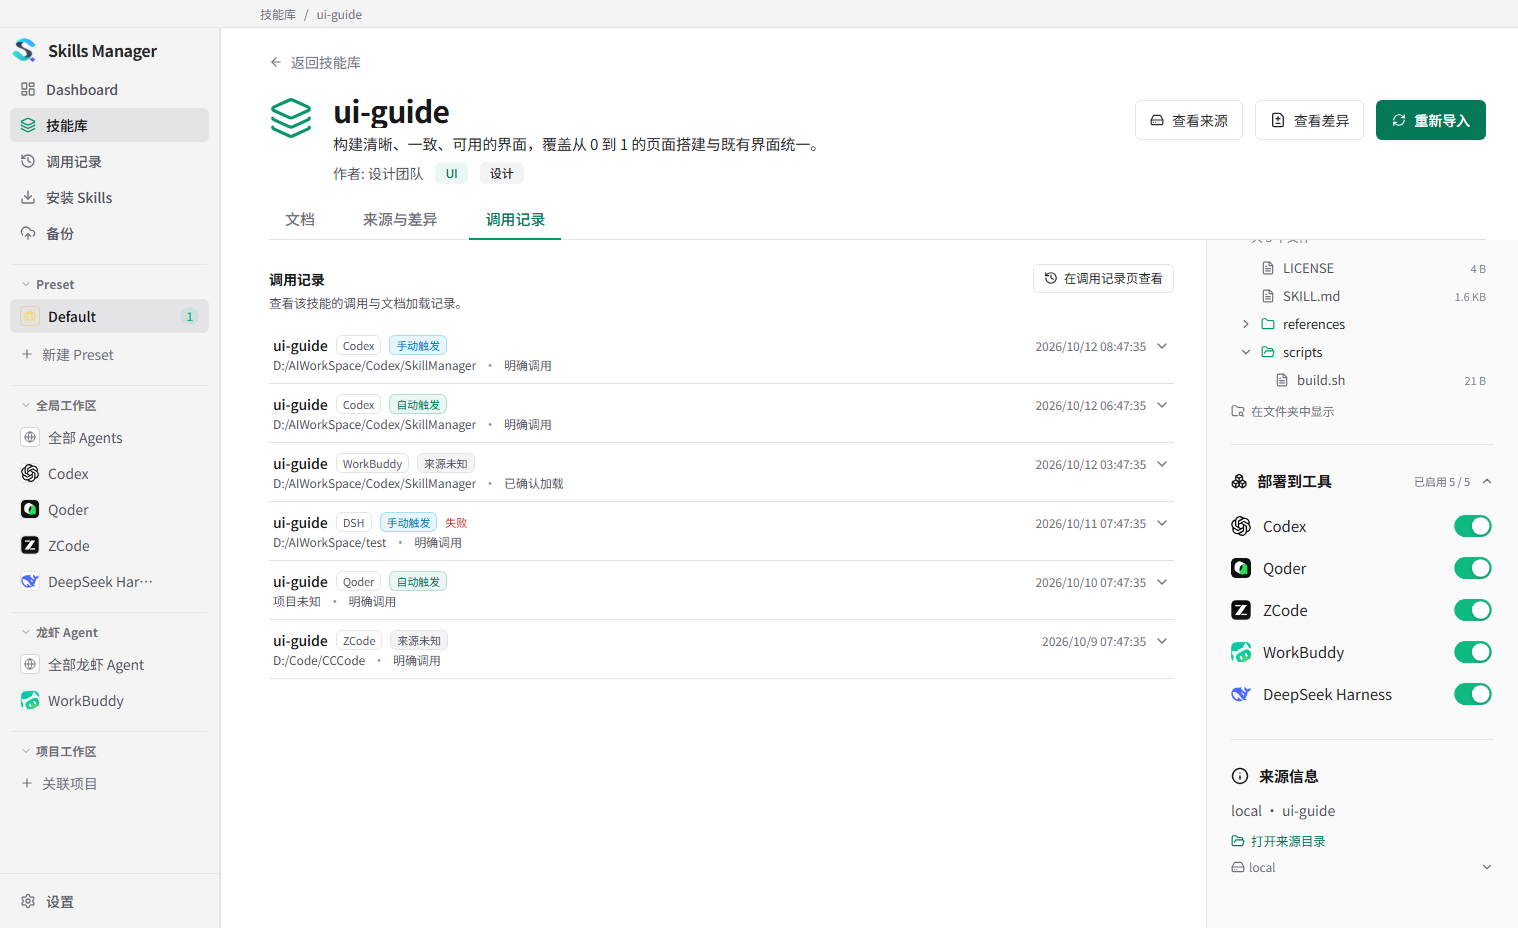
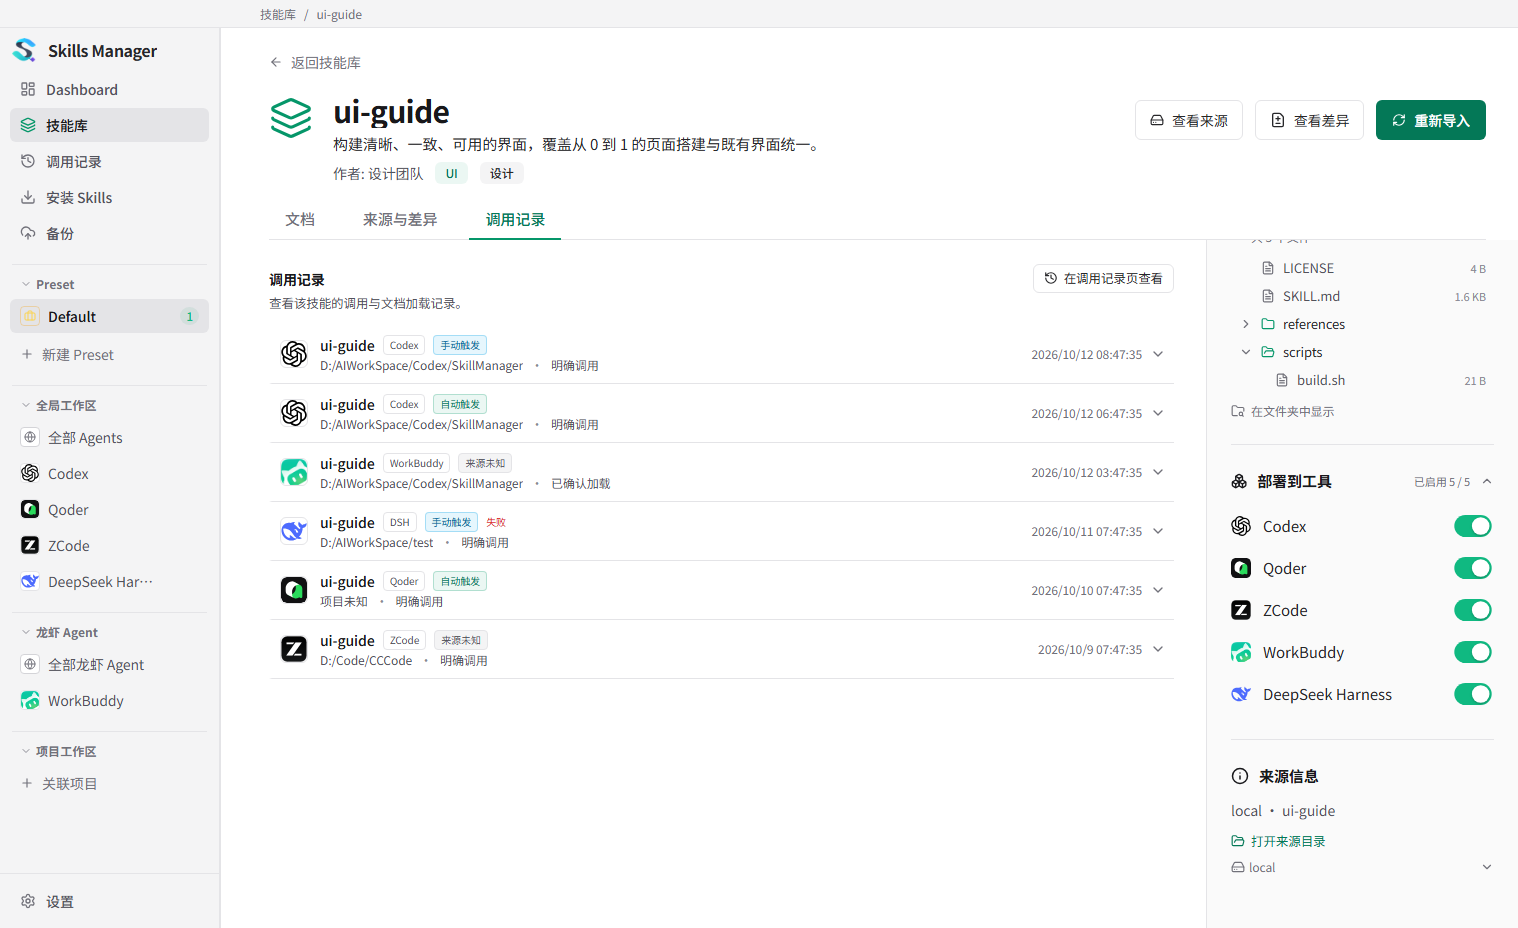
fix: 修复打开文件无反应，并按参考图重做调用记录样式（含深色）
打开文件无反应（根因有硬证据）
- 桌面外壳用 ELECTRON_RUN_AS_NODE=1 拉起本地服务，该变量会继续传给被打开的
  程序。本机 .md 的默认程序是 Typora（Electron 应用），在该变量下会以普通 Node
  模式启动、无法创建窗口，表现为"点了打开文件却没有任何反应"。
- 用工程内 electron.exe 实测：带该变量时 process.type 为空且 require('electron')
  抛「Cannot find module 'electron'」；不设置时 process.type=browser、app 可用。
- 修复：打开外部程序前清理 Electron 注入的环境变量（不改动传入对象本身）。
- 打开方式改为候选序列，失败才回退：Windows 定位文件用 explorer.exe "/select," 与
  路径两个参数（合并成一个参数在路径含空格时会被引号包裹、explorer 解析失败）；
  目录先用文件管理器打开；文件先交给系统默认程序，失败回退为在文件夹中定位。
- 等待子进程真正建立或明确失败，把真实原因返回界面，不再静默成功。
- 新增单测：launchEnv 清理变量、launchPlan 四种平台/类型组合、pathWithinRoots 边界。

调用记录样式对齐参考图（浅色 + 深色）
- 每行以工具图标起头，与参考图右栏的工具行同构；触发方式徽章浅色用深色文字、
  深色用浅色文字；展开行为浅绿底 + 3px 左侧绿线，对应参考图"目录"的选中态。
- 调用记录页去掉最后一行与分页之间的重复分隔线。

验证：后端 47 项 45 通过（2 项仍为本机 spawnSync 派生进程 EBUSY，与本次改动无关）、
UI 6/6、lint、类型检查与构建通过；真实浏览器断言与截图见 output/ui-rework/evidence。

diff --git a/src/components/ActivityRecordList.tsx b/src/components/ActivityRecordList.tsx
@@ -3,10 +3,12 @@ import { useTranslation } from "react-i18next";
 import { ChevronDown, FileSearch, FolderSearch, History, RefreshCw } from "lucide-react";
 import { cn } from "../utils";
 import { openPath } from "../lib/tauri";
-import { toolNames, type ActivityEvent } from "../lib/activity";
+import { toolIconKeys, toolNames, type ActivityEvent } from "../lib/activity";
+import { AgentIcon } from "./AgentIcon";
 
+// 触发方式徽章：浅色用深色文字，深色用浅色文字，避免只在单一主题下可读。
 const TRIGGER_TONE: Record<ActivityEvent["trigger"], string> = {
-  manual: "border-sky-500/30 bg-sky-500/10 text-sky-600 dark:text-sky-300",
+  manual: "border-sky-500/30 bg-sky-500/10 text-sky-700 dark:text-sky-300",
   automatic: "border-accent-border bg-accent-bg text-accent-dark dark:text-accent-light",
   unknown: "border-border-subtle bg-surface-hover text-tertiary",
 };
@@ -25,7 +27,8 @@ interface Props {
 
 /**
  * 调用记录列表：按参考图的平面分组样式渲染——不使用大圆角卡片，
- * 依靠细分隔线、绿色强调色和两行信息层级区分记录，展开后展示可追溯的定位信息。
+ * 每行以工具图标起头（与参考图右栏的工具行一致），依靠细分隔线、绿色强调色和
+ * 两行信息层级区分记录；展开的行使用参考图"目录"选中态同款的浅绿底＋左侧绿线。
  */
 export function ActivityRecordList({ items, loading, error, compact = false, emptyText, onOpenSkill, onRetry, className }: Props) {
   const { t, i18n } = useTranslation();
@@ -71,14 +74,22 @@ export function ActivityRecordList({ items, loading, error, compact = false, emp
               onClick={() => setExpanded(isOpen ? null : record.id)}
               aria-expanded={isOpen}
               aria-controls={`event-${record.id}`}
-              className="flex min-w-0 items-start gap-3 border-b border-border-subtle px-1 py-2.5 text-left outline-none transition-colors hover:bg-surface-hover focus-visible:ring-2 focus-visible:ring-accent"
+              className={cn(
+                "flex min-w-0 items-center gap-3 border-b border-l-[3px] border-border-subtle px-2 py-2.5 text-left outline-none transition-colors focus-visible:ring-2 focus-visible:ring-accent",
+                isOpen ? "border-l-accent bg-accent-bg" : "border-l-transparent hover:bg-surface-hover"
+              )}
             >
+              <AgentIcon
+                agentKey={toolIconKeys[record.tool] ?? record.tool}
+                displayName={toolNames[record.tool]}
+                className="h-7 w-7 shrink-0"
+              />
               <div className="min-w-0 flex-1">
                 <div className="flex min-w-0 flex-wrap items-center gap-x-2 gap-y-1">
                   <span className="min-w-0 truncate text-[14px] font-medium leading-5 text-primary" title={record.skillName}>{record.skillName}</span>
-                  <span className="rounded-md border border-border-subtle px-1.5 py-px text-[11px] leading-4 text-tertiary">{toolNames[record.tool]}</span>
-                  <span className={cn("rounded-md border px-1.5 py-px text-[11px] leading-4", TRIGGER_TONE[record.trigger])}>{t(`activity.triggers.${record.trigger}`)}</span>
-                  {record.status === "failed" && <span className="text-[11px] leading-4 text-danger">{t("activity.statuses.failed")}</span>}
+                  <span className="rounded border border-border-subtle bg-surface px-1.5 py-px text-[10px] leading-4 text-tertiary">{toolNames[record.tool]}</span>
+                  <span className={cn("rounded border px-1.5 py-px text-[10px] leading-4", TRIGGER_TONE[record.trigger])}>{t(`activity.triggers.${record.trigger}`)}</span>
+                  {record.status === "failed" && <span className="text-[10px] leading-4 text-danger">{t("activity.statuses.failed")}</span>}
                 </div>
                 <div className="mt-0.5 flex min-w-0 flex-wrap items-center gap-x-2 text-[12px] leading-4 text-tertiary">
                   <span className="truncate" title={record.project || ""}>{record.project || t("activity.noProject")}</span>
@@ -87,13 +98,13 @@ export function ActivityRecordList({ items, loading, error, compact = false, emp
                   {!compact && <><span className="text-faint">·</span><span>{t(`activity.evidenceCodes.${record.evidence}`, { defaultValue: record.evidence })}</span></>}
                 </div>
               </div>
-              <div className="flex shrink-0 items-center gap-2 pt-0.5">
+              <div className="flex shrink-0 items-center gap-2">
                 <span className="hidden whitespace-nowrap text-[12px] tabular-nums text-muted sm:inline">{date(record.timestamp)}</span>
                 <ChevronDown className={cn("h-4 w-4 text-muted transition-transform", isOpen && "rotate-180")} />
               </div>
             </button>
             {isOpen && (
-              <div id={`event-${record.id}`} className="border-b border-border-subtle bg-bg-secondary/60 px-3 py-3">
+              <div id={`event-${record.id}`} className="border-b border-l-[3px] border-border-subtle border-l-accent bg-accent-bg px-3 py-3 pl-[52px]">
                 <dl className="grid grid-cols-[auto_1fr] gap-x-5 gap-y-2 text-[12px]">
                   {([
                     ["evidence", t(`activity.evidenceCodes.${record.evidence}`, { defaultValue: record.evidence })],
@@ -113,7 +124,7 @@ export function ActivityRecordList({ items, loading, error, compact = false, emp
                     <span className="min-w-0 break-all text-secondary">{record.sourcePath || "—"}</span>
                     {record.sourcePath && (
                       <button type="button" onClick={() => void revealFile(record.sourcePath)}
-                        className="inline-flex shrink-0 items-center gap-1 rounded-md border border-border-subtle px-2 py-0.5 text-[11.5px] text-secondary outline-none hover:bg-surface-hover focus-visible:ring-2 focus-visible:ring-accent">
+                        className="inline-flex shrink-0 items-center gap-1 rounded-md border border-border-subtle bg-surface px-2 py-0.5 text-[11.5px] text-secondary outline-none hover:bg-surface-hover focus-visible:ring-2 focus-visible:ring-accent">
                         <FolderSearch className="h-3.5 w-3.5" />{t("mySkills.detail.revealInFolder")}
                       </button>
                     )}
@@ -122,7 +133,7 @@ export function ActivityRecordList({ items, loading, error, compact = false, emp
                 <p className="mt-2.5 text-[12px] text-tertiary">{t("activity.statusNote")}</p>
                 {!compact && (record.managedSkillId && onOpenSkill ? (
                   <button type="button" onClick={() => onOpenSkill(record.managedSkillId!)}
-                    className="mt-2.5 inline-flex items-center gap-1.5 rounded-md border border-accent-border bg-accent-bg px-2.5 py-1 text-[12px] text-accent-dark outline-none hover:bg-accent-bg focus-visible:ring-2 focus-visible:ring-accent dark:text-accent-light">
+                    className="mt-2.5 inline-flex items-center gap-1.5 rounded-md border border-accent-border bg-surface px-2.5 py-1 text-[12px] text-accent-dark outline-none hover:bg-accent-bg focus-visible:ring-2 focus-visible:ring-accent dark:text-accent-light">
                     <FileSearch className="h-3.5 w-3.5" />{t("activity.openSkill")}
                   </button>
                 ) : <p className="mt-2.5 text-[12px] text-tertiary">{t("activity.unlinked")}</p>)}

diff --git a/src/views/SkillActivity.tsx b/src/views/SkillActivity.tsx
@@ -170,7 +170,7 @@ export function SkillActivity() {
         onOpenSkill={id => { openSkillDetailById(id); navigate("/my-skills"); }}
         onRetry={refresh}
       />
-      <footer className="flex items-center justify-between border-t border-border-subtle py-3 text-[12px] text-tertiary">
+      <footer className="flex items-center justify-between py-3 text-[12px] text-tertiary">
         <span>{t("activity.page", { current: result?.page ?? 1, pages })}</span>
         <div className="flex gap-2">
           <button type="button" className={button} disabled={!result || result.page <= 1} onClick={() => setQuery(q => ({ ...q, page: (result?.page ?? 1) - 1 }))} aria-label={t("activity.previous")}><ChevronLeft className="h-4 w-4" /></button>

diff --git a/ACCEPTANCE.md b/ACCEPTANCE.md
@@ -137,9 +137,33 @@
 | 部署默认折叠 | 初始 `aria-expanded=false`，折叠时开关数为 0；展开后只出现已安装工具（Codex／Qoder／ZCode／WorkBuddy／DeepSeek Harness），未安装工具与「N 个不可用」入口均不展示 | 通过 |
 | 调用记录内嵌 | 切到「调用记录」页签后 `location.pathname` 仍为 `/my-skills`；内嵌 6 条记录；展开后展示识别依据／行号／会话 ID／调用 ID／项目／技能文件／来源文件 | 通过 |
 | 调用记录页样式 | 记录区无大圆角卡片（`rounded-xl` 计数 0）；统计为扁平数字行；6 条记录 | 通过 |
+| 调用记录对齐参考图（浅色 + 深色） | 每行以工具图标起头（与参考图右栏工具行一致）；展开态为浅绿底 + 3px 左侧绿线（与参考图"目录"选中态一致）。深色断言：展开底 `rgba(16,185,129,0.08)`、左线 `rgb(16,185,129)` / 3px；浅色断言徽章与正文对比度正常 | 通过 |
 | 近期动态含调用记录 | 仪表盘「近期动态」共 7 行：1 条技能更新 + 6 条调用记录；6 行含工具名与触发方式徽章；每行均有时间；区块右上角有「查看全部」 | 通过 |
 
-截图证据：`output/ui-rework/evidence/`（`01_detail_light`、`01b_detail_sidebar_bottom`、`02_activity_inline`、`03_activity_detail`、`04_detail_dark`、`05_activity_page_light`、`06_activity_deeplink`、`07_dashboard_light`）；结构化断言见同目录 `report.json`。
+截图证据：`output/ui-rework/evidence/`（`01_detail_light`、`01b_detail_sidebar_bottom`、`02_activity_inline`、`03_activity_detail`、`04_detail_dark`、`05_activity_page_light`、`05b_activity_page_light_detail`、`06_activity_deeplink`、`07_dashboard_light`、`08_activity_inline_dark`、`09_activity_detail_dark`、`10_activity_page_dark`、`11_activity_page_dark_detail`）；结构化断言见同目录 `report.json`。
+
+### 3.1 「打开文件」无法打开（第三轮修复）
+
+现象：点击项目结构中的文件或「打开文件」后没有任何反应。
+
+根因（有硬证据，非推测）：
+
+1. 桌面外壳用 `ELECTRON_RUN_AS_NODE=1` 拉起本地服务（`electron/main.mjs`），该变量会被本地服务继续传给被打开的程序。
+2. 本机 `.md` 的默认打开方式是 Typora（`HKCU\...\FileExts\.md\UserChoice` → `md_auto_file` → `D:\Apps\Typora\Typora.exe`），Typora 是 Electron 应用。
+3. 用工程内 `electron.exe` 实测同一脚本在两种环境下的差异：
+   - 带 `ELECTRON_RUN_AS_NODE=1`：`process.type` 为空、`require('electron')` 抛「Cannot find module 'electron'」——即被当作普通 Node 运行，Electron 应用无法创建窗口。
+   - 不设置该变量：`process.type = "browser"`、`require('electron').app` 可用——正常 Electron 应用。
+   因此 Typora 被拉起后立即以 Node 模式失败，表现为「点了没反应」。
+
+修复：
+
+- 打开外部程序前清理 Electron 注入的环境变量（`ELECTRON_RUN_AS_NODE`、`ELECTRON_NO_ATTACH_CONSOLE`、`ELECTRON_FORCE_IS_PACKAGED`、`ELECTRON_ENABLE_LOGGING`、`SKILLS_MANAGER_ROLE`），且不改动传入对象本身。
+- 打开方式改为按目标类型与平台生成候选序列，失败才回退：Windows 定位文件用 `explorer.exe "/select," <路径>` 两个参数（合并成一个参数在路径含空格时会被引号包裹，explorer 解析失败）；目录先用文件管理器打开；文件先交给系统默认程序，失败回退为在文件夹中定位。
+- 等待子进程真正建立（`spawn`）或明确失败（`error`），不再静默吞掉启动错误；失败时把真实原因返回给界面展示。
+
+新增单测：`launchEnv` 清理变量且不修改入参、`launchPlan` 的四种平台/类型组合、`pathWithinRoots` 的边界。`tests/backend/shell.test.mjs` 4/4 通过。
+
+未验证项：本机工具环境无法启动桌面程序（分离进程被回收），因此「修复后 Typora 实际弹出窗口」这一步需用户在本机确认；已验证的是环境变量差异（硬证据）、候选命令形状与错误上报链路。
 
 ### 4. 测试与静态检查
 

diff --git a/TODO.md b/TODO.md
@@ -355,3 +355,5 @@ WorkBuddy 顶层事件解析已实现；样本测试覆盖 `callId` 关联、重
 
 本轮未通过项：后端 45 项测试中 2 项失败（`backup`、`update-regression`），错误均为 `spawnSync git EBUSY`，经独立复核确认为本机环境限制（`spawnSync` 派生任何进程均报 EBUSY，异步 `spawn` 正常），与本次改动无关；其余 43 项、UI 6 项、lint、类型检查与构建全部通过。
 - [x] REWORK-11：仪表盘「近期动态」加入调用记录。技能更新时间与 Skill 调用记录合并为一条按时间倒序的时间线（各 8 条以内），调用行展示工具图标、工具名、触发方式徽章与「项目 · 记录类型」，点击已纳管技能打开详情、未纳管跳转到调用记录页按技能名筛选；区块右上角新增「查看全部」入口。真实浏览器断言：7 行（1 条技能更新 + 6 条调用记录），6 行含工具与触发徽章，见 `output/ui-rework/evidence/07_dashboard_light.png`。
+- [x] REWORK-12：调用记录 UI 对齐参考图（浅色 + 深色）。每行以工具图标起头，与参考图右栏的工具行同构；展开行使用参考图「目录」选中态同款的浅绿底 + 3px 左侧绿线；触发方式徽章在浅色用深色文字、深色用浅色文字。深色断言：展开底 `rgba(16,185,129,0.08)`、左线 `rgb(16,185,129)`/3px；证据 `output/ui-rework/evidence/08～11`、`05_activity_page_light`、`05b_activity_page_light_detail`。
+- [x] REWORK-13：修复「打开文件」点了没反应。根因是桌面外壳用 `ELECTRON_RUN_AS_NODE=1` 拉起本地服务，该变量继续传给被打开的程序；本机 `.md` 默认程序是 Typora（Electron 应用），在该变量下会以 Node 模式启动、不显示窗口（用工程内 `electron.exe` 实测：带该变量时 `require('electron')` 抛错、`process.type` 为空；不带时 `process.type=browser`）。修复：打开前清理 Electron 注入的环境变量；打开方式改为候选序列并可回退（Windows 定位用 `explorer.exe "/select," <路径>` 两参数，避免含空格路径解析失败）；等待 `spawn`/`error` 并把真实失败原因返回界面，不再静默成功。新增 2 项单测。修复后「Typora 实际弹窗」需用户在本机确认（本机工具环境无法启动桌面程序）。
